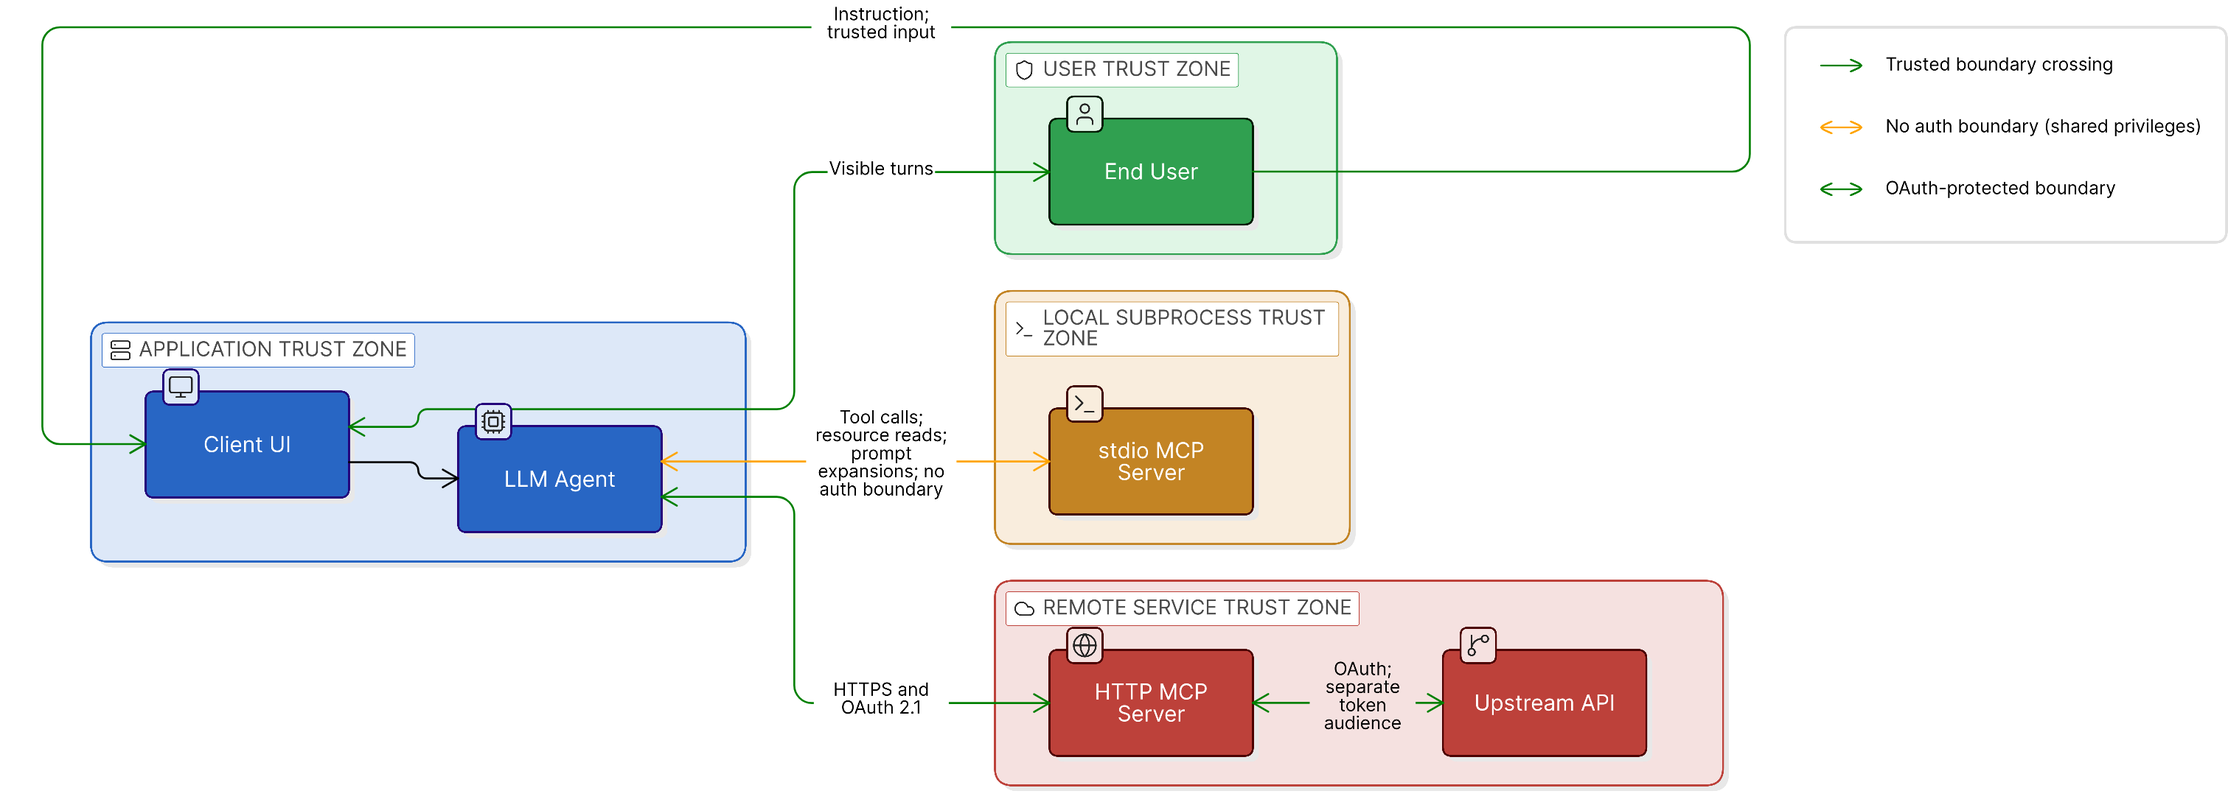
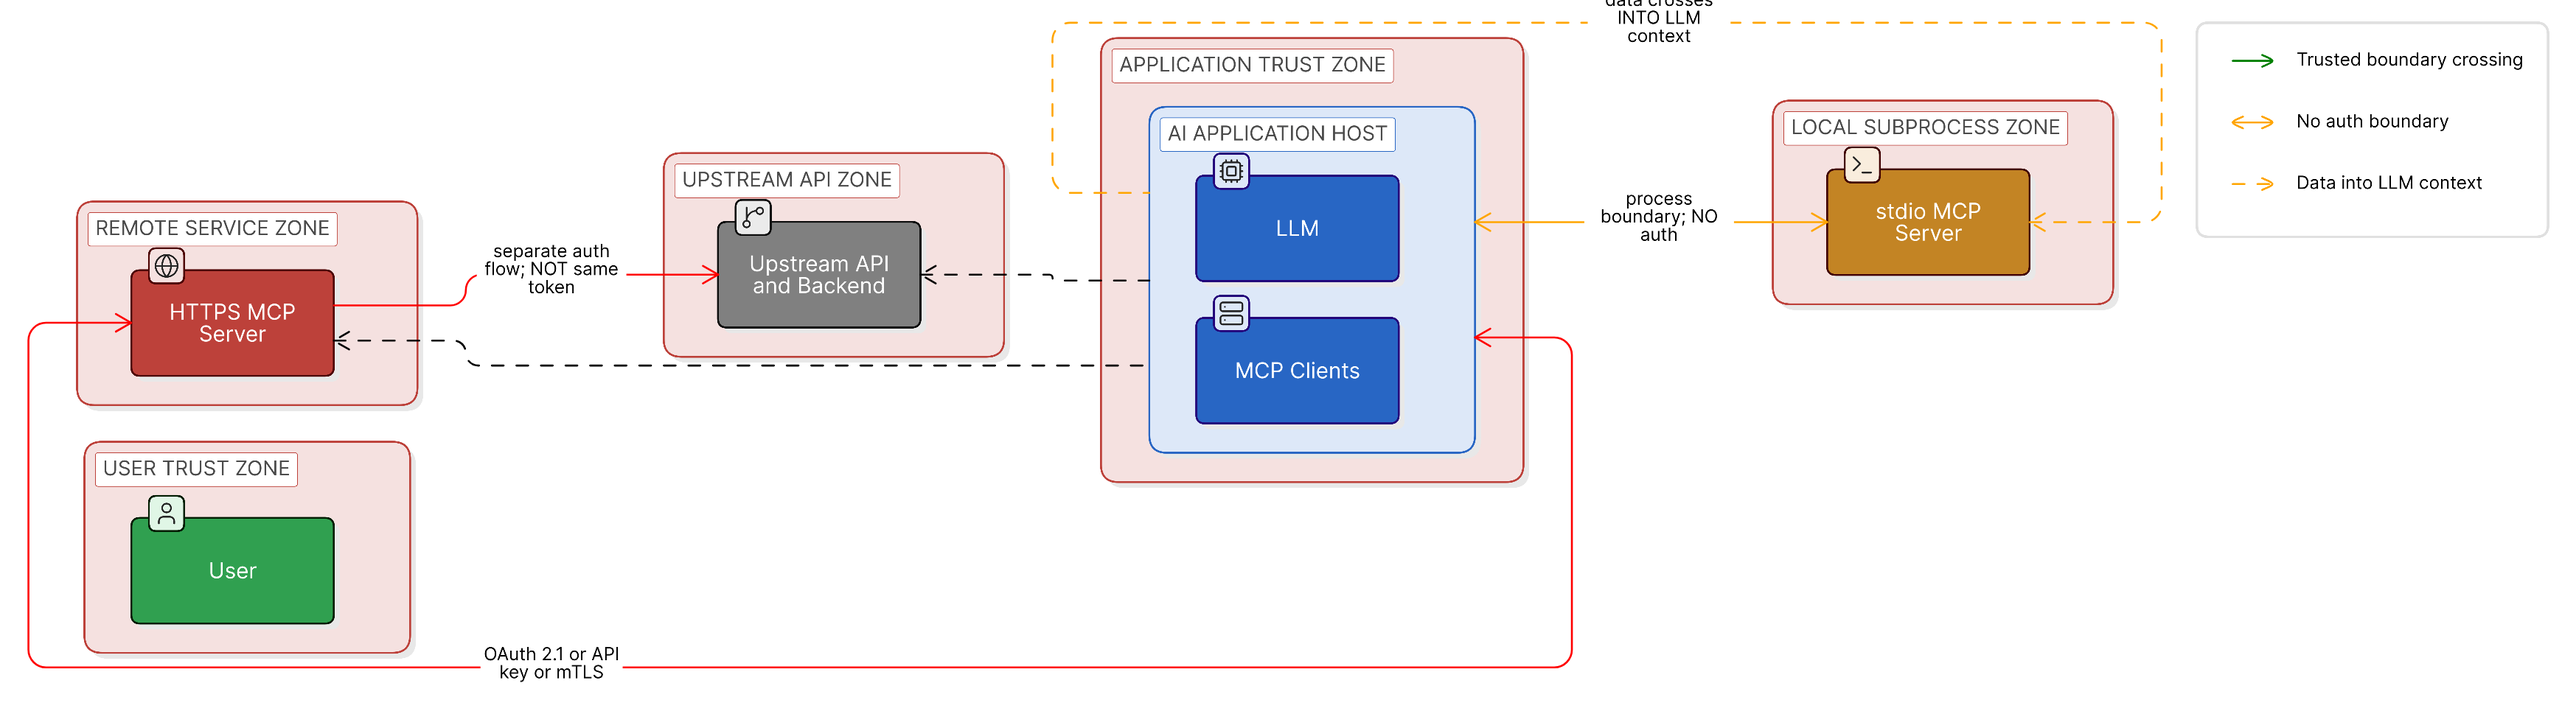
MCP series Part 1: redraw architecture and trust-boundaries diagrams
architecture.png now reflects production reality: distinct auth labels
per scenario (stdio = no auth, public remote = OAuth 2.1, internal =
API key OR OAuth 2.1 OR mTLS), with a Corporate Network boundary around
the internal server and its backend, and a third-party API node
downstream of the public remote server.

trust-boundaries.png redrawn so every trust zone has a RED boundary box
(User, Application, Local Subprocess, Remote Service, Upstream API),
node colors inside each zone signal trust level, and arrow colors
signal the auth model at each crossing. Dashed amber arrows highlight
retrieved-data-into-LLM-context as the most-missed trust boundary.

Alt text on both images updated to match the redrawn content.

diff --git a/src/content/blog/mcp-security-server-features/index.md b/src/content/blog/mcp-security-server-features/index.md
@@ -49,7 +49,7 @@ You can't reason about the threat model without a clear picture of what MCP actu
 
 MCP is a client-server protocol. A **client** runs inside an AI application (a chat app, an IDE, a custom agent). A **server** runs as a separate process, either as a subprocess of the client (stdio transport) or as a remote HTTP service (Streamable HTTP transport). One client typically connects to multiple servers simultaneously, and the LLM driving the client sees the union of capabilities across all of them.
 
-![MCP architecture: an AI application host with an LLM and three MCP clients, each connecting to a different MCP server (local stdio subprocess, remote HTTP, internal HTTP), with the two HTTP servers using OAuth 2.1 against an authorization server](./diagrams/architecture.png)
+![MCP architecture: an AI application host (LLM and three MCP clients) connecting to a local stdio MCP server (no auth, process boundary), a public remote MCP server (OAuth 2.1, third-party), and an internal MCP server inside a Corporate Network boundary (auth via API key, OAuth 2.1, or mTLS); each remote server connects to its own backend or third-party API](./diagrams/architecture.png)
 
 Two architectural facts matter for security:
 
@@ -74,7 +74,7 @@ The three primitives differ in **who controls invocation**: tools are model-cont
 
 A useful mental model is to draw the trust boundaries explicitly. Every interaction between trust zones is a place where a check must happen.
 
-![MCP trust boundaries: four zones (User in green, Application with the LLM agent in blue, Local subprocess holding the stdio MCP server in amber, Remote service holding HTTP MCP servers and upstream APIs in red), with the boundary crossings between them labeled by their auth model](./diagrams/trust-boundaries.png)
+![MCP trust boundaries: five zones each enclosed in a red boundary box (User Trust Zone, Application Trust Zone, Local Subprocess Zone, Remote Service Zone, Upstream API Zone), with arrows colored by auth model — green for trusted user input, amber for the no-auth process boundary to stdio servers, red for OAuth/API-key/mTLS to HTTPS servers, and dashed amber arrows showing retrieved data flowing back into the LLM's reasoning context as a trust boundary](./diagrams/trust-boundaries.png)
 
 The boundaries that matter:
 
